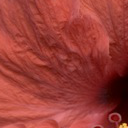
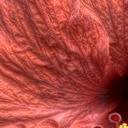
Using intensity image gives results as in the paper.

diff --git a/main.py b/main.py
@@ -1,5 +1,3 @@
-import os
-import sys
 import time
 from collections import OrderedDict
 
@@ -8,22 +6,22 @@ from model import LocalLaplacianFilter
 
 # Input parameters
 config = OrderedDict(
-    img_path='data/0.png',
-    out_path='data/0_reconstructed.png',
+    img_path='data/flower_cropped_128.png',
+    out_path='data/flower_cropped_128_reconstructed.png',
     color_img=True,
-    intensity_img=False,
-    mapping_func='color',   # 'color' or 'grayscale'
-    levels=3,
-    sigma=1.0,
-    alpha=1.0,
+    intensity_img=True,
+    mapping_func='grayscale',   # 'color' or 'grayscale'
+    levels=4,
+    sigma=0.3,
+    alpha=0.25,
     beta=1.0,
-    num_processes=4 # Keep in mind the number of processes should be higher than number of rows in the lowest layer
+    num_processes=16
 )
 
 
 def main():
 
-    img = readImage(config['img_path'], config['color_img'])
+    img = readImage(config['img_path'], config['color_img'])/255
 
     algorithm = LocalLaplacianFilter(config)
 

diff --git a/model/localLaplacianFilter.py b/model/localLaplacianFilter.py
@@ -240,7 +240,7 @@ class LocalLaplacianFilter:
         g = img64bit[:, :, 1]
         b = img64bit[:, :, 2]
 
-        intensityImg = ((20*r + 40*g + b) + 0.01) / 61# +1 to prevent dividing by 0
+        intensityImg = ((20*r + 40*g + b) + 0.01) / 61 # +0.01 to prevent dividing by 0
         colorRatios = [r/intensityImg, g/intensityImg, b/intensityImg]
 
         return np.log(intensityImg), colorRatios
